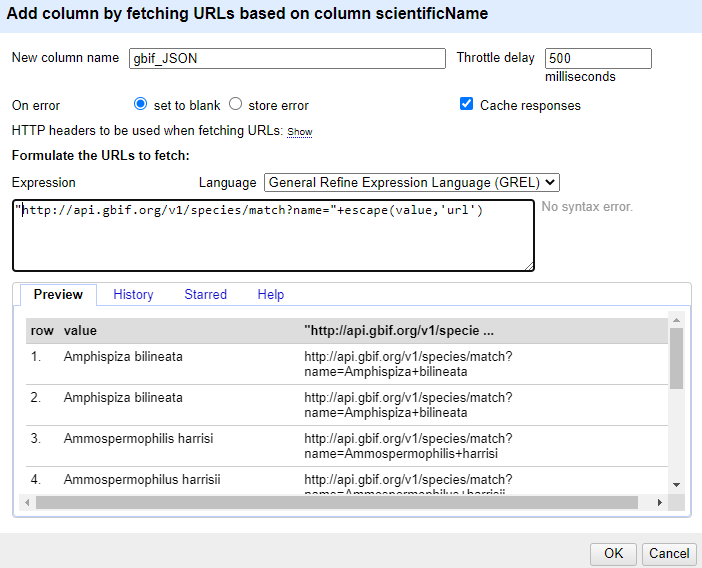
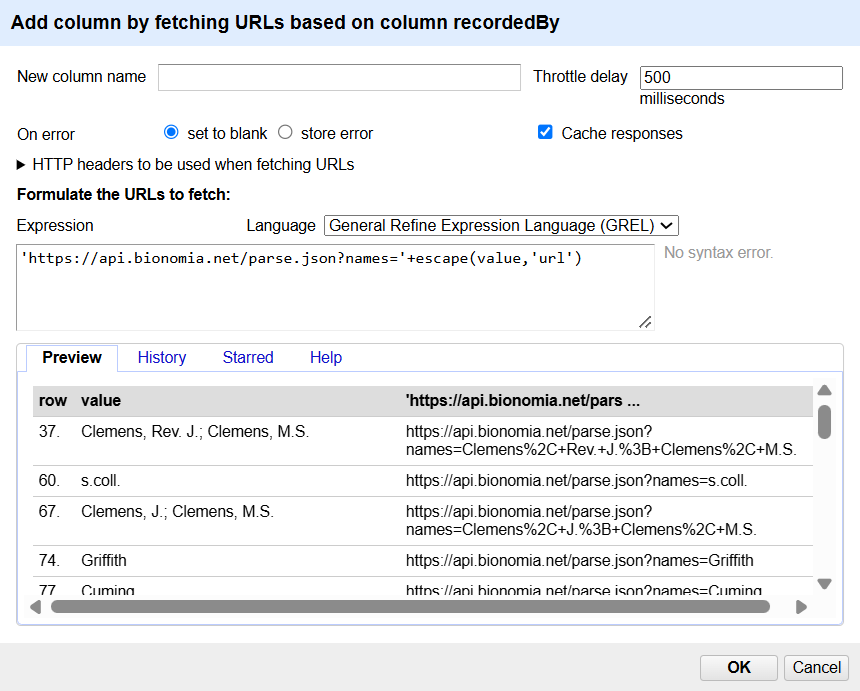
markdown source builds
Auto-generated via `{sandpaper}`
Source  : b15a1f40e75c3a194e586d2636ac18fcb45aa4d9
Branch  : main
Author  : Nicky Nicolson <n.nicolson@kew.org>
Time    : 2026-10-21 21:33:43 +0000
Message : Mod fetch url episode to use bionomia

diff --git a/07-looking-up-data.md b/07-looking-up-data.md
@@ -20,7 +20,13 @@ exercises: 0
 
 ## Looking up data from a URL
 
-OpenRefine can retrieve data from URLs. This can be used in various ways, including looking up additional information from a remote service, based on information in your OpenRefine data. As an example, you can look up the scientific names in a dataset against the taxonomy of the Global Biodiversity Information Facility (GBIF), and retrieve additional information such as higher taxonomy and identifiers.
+OpenRefine can retrieve data from URLs. This can be used in various ways, including looking up additional information from a remote service, based on information in your OpenRefine data. 
+
+Up till now we have been working with scientific names, now we switch to working with the names of the people that collected the specimen, as found in the `recordedBy` column. If you add a text facet on this column you will see that there are many different ways that personal names have been abbrevatiated, and many different ways that individual names have been joined together in a team. 
+
+Luckily the Bionomia project (https://bionomia.net) has a service that parses the recordedBy values and returns the different parts of the name (title, given name, family name etc) for each member of the recordedBy team. You can try it out with data that you type or paste into a webpage here: https://bionomia.net/parse
+
+Instead of us copying and pasting data into this useful utility, we can use Open Refine to send our data values to the service and record the results.
 
 Typically this is a two step process, firstly a step to retrieve data from a remote service, and secondly to extract the relevant information from the data you have retrieved.
 
@@ -33,19 +39,19 @@ This will prompt you for a GREL expression to create a URL. This URL will use ex
 
 The `parseHtml()` function can also be used to extract data from XML.
 
-### Retrieving higher taxonomy from GBIF
+### Retrieving parsed recordedBy team names from Bionomia
 
-In this case we are going to use the [GBIF API](https://www.gbif.org/developer/summary). Note that API providers may impose rate limits or have other requirements for using their data, so it's important to check the site's documentation. To reduce the impact on the service, use a value of `500` in the `Throttle Delay` setting to specify the number of milliseconds between requests.
+In this case we are going to use the [Bionomia parsing API](https://bionomia.net/developers/parse). Note that API providers may impose rate limits or have other requirements for using their data, so it's important to check the site's documentation. To reduce the impact on the service, use a value of `500` in the `Throttle Delay` setting to specify the number of milliseconds between requests.
 
-The syntax for requesting species information from GBIF is `http://api.gbif.org/v1/species/match?name={name}` where {name} is replaced with the scientific name in the dataset.
+The syntax for requesting a team name parse from Bionomia is `https://api.bionomia.net/parse.json?names={recordedBy}` where {recordedBy} is replaced with the recordedBy value from the dataset.
 
-- Using the dropdown menu of `scientificName`, select `Edit column` > `Add column by fetching URLs...`
+- Using the dropdown menu of `recordedBy`, select `Edit column` > `Add column by fetching URLs...`
 
-- In the `New column name` field, enter "gbif\_JSON"
+- In the `New column name` field, enter "bionomia\_JSON"
 
 - In the field for `Throttle delay` enter 500
 
-- In the expression box type the GREL `"http://api.gbif.org/v1/species/match?name="+escape(value,'url')`
+- In the expression box type the GREL `"https://api.bionomia.net/parse.json?names="+escape(value,'url')`
   
   At this point, your screen should be similar to this:
   
@@ -57,25 +63,47 @@ You should see a message at the top on the OpenRefine screen indicating it is fe
 
 At this point you should have a new column containing a long text string in a format called 'JSON' (this stands for JavaScript Object Notation, although very rarely spelt out in full). The results should look like this figure:
 
-![](fig/or372-fetch-gbifjson.png){alt='Example of the results of fetching data from GBIF'}
+![](fig/or372-fetch-gbifjson.png){alt='Example of the results of fetching data from Bionomia'}
 
 OpenRefine has a function for extracting data from JSON (sometimes referred to as 'parsing' the JSON). The `parseJson()` function is explained in more detail at the [Format-based functions page](https://docs.openrefine.org/manual/grelfunctions/#format-based-functions-json-html-xml).
 
 - In the new column you've just added use the dropdown menu to access `Edit column` > `Add column based on this column...`
 
-- Add the new column name: "gbif\_family"
+- Add the new column name: "recordedBy_first_family"
 
-- In the Expression box type the GREL `value.parseJson().get("family")`
+- In the Expression box type the GREL `parseJson(value)[0]['parsed'][0]['family']`
 
-- You should see in the Preview the taxonomic family of the scientific names displays, similar to this screen:
+- You should see in the Preview the familyname of the first collector in recordedBy displayed, similar to this screen:
   
-  ![](fig/or362-parse-json.png){alt='Parse JSON to extract taxonomic family'}
+  ![](fig/or362-parse-json.png){alt='Parse JSON to extract familyname of the first collector'}
 
-The reason for using `Add column based on this column` is that this allows you to retain the full JSON and extract further data from it if you need to. If you only wanted the taxonomic family and did not need any other information from the JSON you could use `Edit cells` > `Transform...` with the same GREL expression.
+The reason for using `Add column based on this column` is that this allows you to retain the full JSON and extract further data from it if you need to. If you only wanted the first collector name  and did not need any other information from the JSON you could use `Edit cells` > `Transform...` with the same GREL expression.
+
+
+:::::::::::::::::::::::::::::::::::::::  challenge
+
+## Exercise
+
+We typically find specimen duplicates using collector name, recordnumber (and year). Now that we have standardised the collector name by extracting the family name of the first collector from recordedBy, can you make a column that can help us locate specimen duplicates in the dataset?
+Which specimen collecting event has the most duplicate specimens in the dataset?
+
+:::::::::::::::  solution
+
+## Solution
+
+We can make a new column (`rb_name_num_year`) by joining `recordedBy_first_family`, `recordNumber` and `year` and separating the values by spaces.
+
+Adding a facet on `rb_name_num_year`, and sorting by count shows that the collecting event `Beaman 10029 1984` has 5 duplicate specimens in the dataset.
+
+:::::::::::::::::::::::::
+
+::::::::::::::::::::::::::::::::::::::::::::::::::
+
+
 
 :::::::::::::::::::::::::::::::::::::::: keypoints
 
-- OpenRefine can look up custom URLs to fetch data based on what's in an OpenRefine project
+- OpenRefine can look up custom URLs to fetch or process data based on what's in an OpenRefine project
 - Such API calls can be custom built
 
 ::::::::::::::::::::::::::::::::::::::::::::::::::

diff --git a/06-reconciliation.md b/06-reconciliation.md
@@ -70,7 +70,7 @@ If you look at the scientificName column, you should see some cells have found o
 1. Create a text facet on the scientificName column
 2. Choose *Decaspermum montanum*
 
-- In the species_binomial column you should be able to see the various potential matches. Clicking on a match will take you to the EOL page for that entity
+- In the species_binomial column you should be able to see the various potential matches. Clicking on a match will take you to the ChecklistBank page for that entity
   ![](fig/or372-reconcile-results.png){alt='Reconciliation menu for each cell'}
 
 1. Click a 'double tick' in one of the scientificName column cells for the option "*Decaspermum montanum* Ridl."
